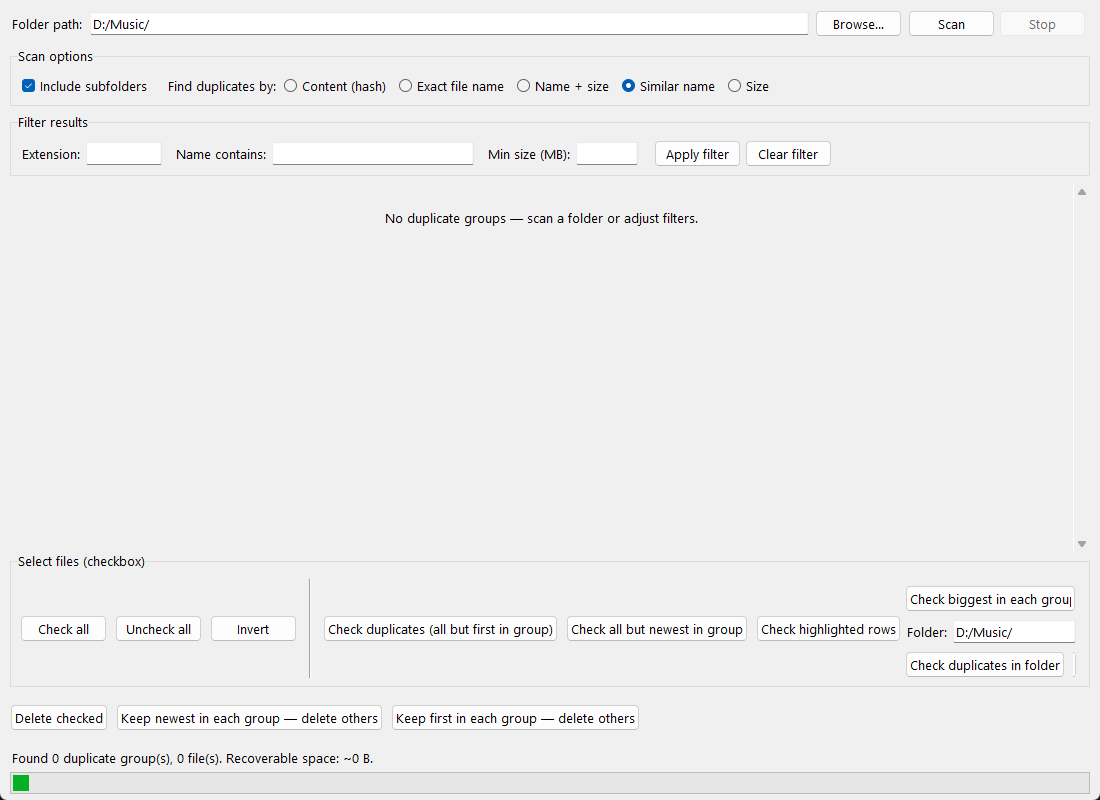
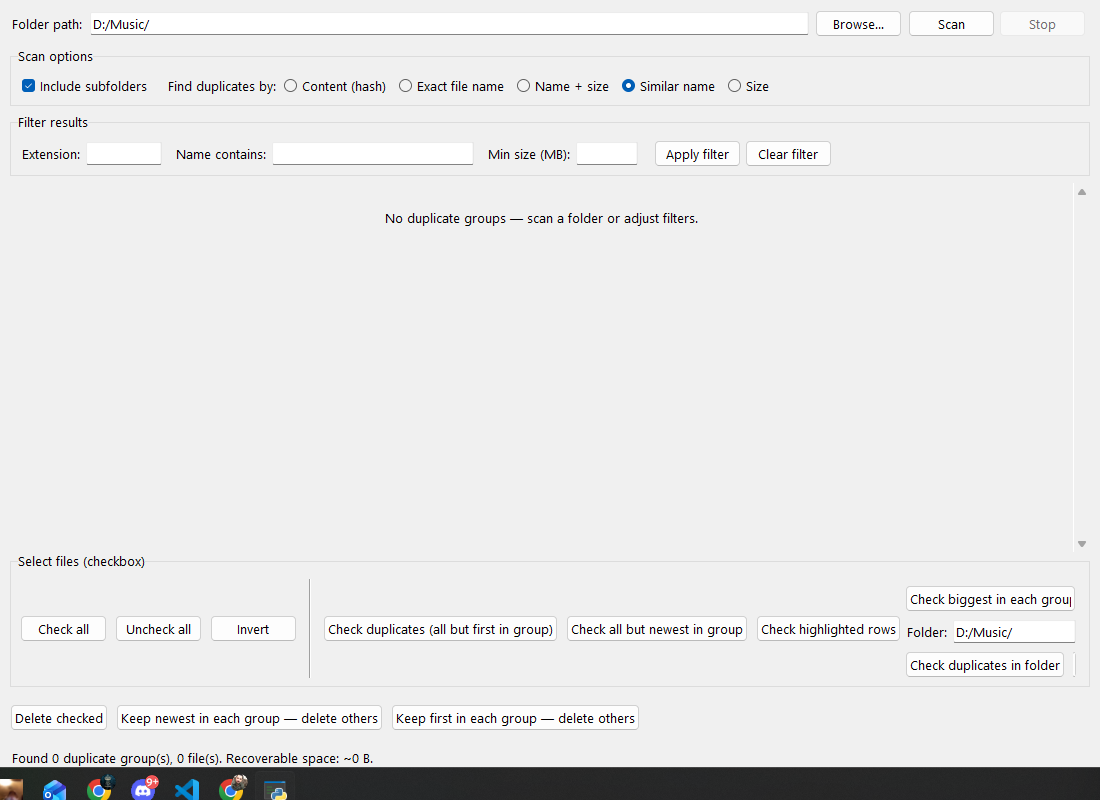
Update app version to 1.2 in installer and enhance settings file with default configuration

Changed region(s): [[0.0, 0.9375, 1.0, 1.0]]

diff --git a/duplicate_finder.py b/duplicate_finder.py
@@ -77,7 +77,7 @@ _RE_PROD_PAREN = re.compile(
 _RE_JUNK_PHRASES = re.compile(
     r"\b(?:official\s+music\s+video|official\s+video|music\s+video|"
     r"official\s+audio|lyric\s+video|full\s+video|hd\s+video|"
-    r"official|lyrics?|audio|video|omv|mv|hd|uhd)\b",
+    r"official|lyrics?|audio|video|omv|mv|hd|uhd|youtube)\b",
     re.IGNORECASE,
 )
 